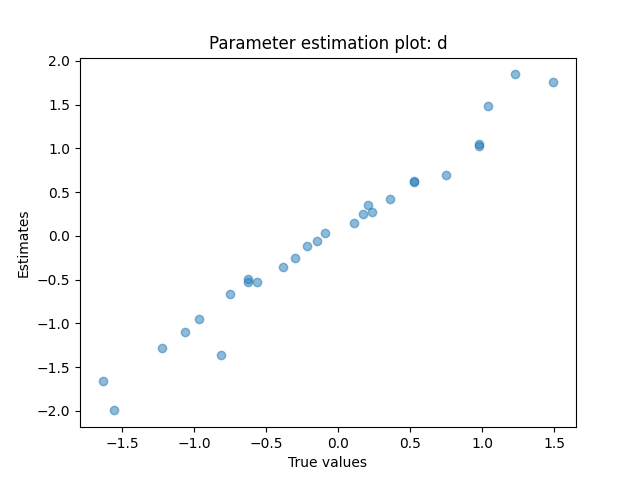
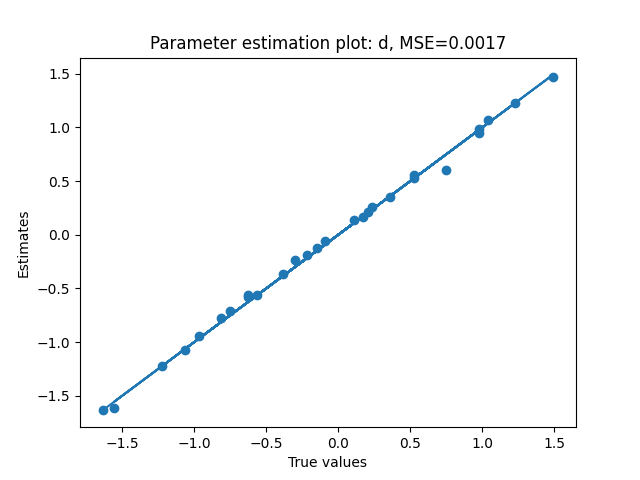
corrected loss function, updated plots

diff --git a/main.py b/main.py
@@ -21,30 +21,49 @@ def inv_factors(a, theta=None):
 
     return a, theta
 
-# create data laoder
+def MSE(est, true):
+    """
+    Mean square error
+    Parameters
+    ----------
+    est: estimated parameter values
+    true: true paremters values
+
+    Returns
+    -------
+    the MSE
+    """
+    return np.mean(np.power(est-true,2))
+
+
+# create data loader
 dataset = ResponseDataset('./data/data.csv')
-train_loader= DataLoader(dataset, batch_size=10, shuffle=False)
+train_loader= DataLoader(dataset, batch_size=10000, shuffle=False)
 
 # initialise model and optimizer
 QMatrix = genfromtxt('./QMatrix.csv', delimiter=',')
 vae = VariationalAutoencoder(latent_dims=3, qm=QMatrix)
 lr = 1e-3
-optim = torch.optim.Adam(vae.parameters(), lr=lr, weight_decay=1e-5)
+optim = torch.optim.Adam(vae.parameters(), lr=lr)
 
 # train model
-num_epochs = 20
+num_epochs = 10000
+loss_values = []
 for epoch in range(num_epochs):
     train_loss = train_epoch(vae,train_loader,optim)
-    if epoch % 5 == 0:
+    loss_values.append(train_loss)
+    if epoch % 50 == 0:
         print('\n EPOCH {}/{} \t train loss {:.3f}'.format(epoch + 1, num_epochs,train_loss))
+
+plt.title(f'Training loss')
+plt.plot(loss_values)
+plt.savefig(f'./figures/training_loss.png')
 
 # save parameter estimates
 a_est = vae.decoder.linear.weight.detach().numpy()
 d_est = vae.decoder.linear.bias.detach().numpy()
 theta_est = vae.encoder.est_theta(dataset.x_train).detach().numpy()
 
-# calculate theta estimates
-# TODO
 
 # invert factors for increased interpretability
 a_est, theta_est = inv_factors(a_est, theta_est)
@@ -56,25 +75,36 @@ d_true = np.genfromtxt('./data/d.txt')
 
 
 # parameter estimation plot for a
-plt.figure()
-plt.scatter(y=a_est.flatten(), x=a_true.flatten(), alpha=.5)
-plt.title('Parameter estimation plot: a')
-plt.xlabel('True values')
-plt.ylabel('Estimates')
-plt.savefig('./figures/param_est_plot_a.png')
+for dim in range(3):
+    plt.figure()
+    ai_est = a_est[:,dim]
+    ai_true = a_true[:,dim]
+    mse = MSE(ai_est, ai_true)
+    plt.scatter(y=ai_est, x=ai_true)
+    plt.plot(ai_true, ai_true)
+    plt.title(f'Parameter estimation plot: a{dim+1}, MSE={round(mse,4)}')
+    plt.xlabel('True values')
+    plt.ylabel('Estimates')
+    plt.savefig(f'./figures/param_est_plot_a{dim+1}.png')
 
-# parameter estimation plot for theta
-plt.figure()
-plt.scatter(y=theta_est.flatten(), x=theta_true.flatten(), alpha=.5)
-plt.title('Parameter estimation plot: theta')
-plt.xlabel('True values')
-plt.ylabel('Estimates')
-plt.savefig('./figures/param_est_plot_theta.png')
+    # parameter estimation plot for theta
+    plt.figure()
+    thetai_est = theta_est[:, dim]
+    thetai_true = theta_true[:, dim]
+    mse = MSE(thetai_est, thetai_true)
+    plt.scatter(y=thetai_est, x=thetai_true)
+    plt.plot(thetai_true, thetai_true)
+    plt.title(f'Parameter estimation plot: theta{dim+1}, MSE={round(mse,4)}')
+    plt.xlabel('True values')
+    plt.ylabel('Estimates')
+    plt.savefig(f'./figures/param_est_plot_theta{dim+1}.png')
 
 # parameter estimation plot for d
 plt.figure()
-plt.scatter(y=d_est, x=d_true, alpha=.5)
-plt.title('Parameter estimation plot: d')
+plt.scatter(y=d_est, x=d_true)
+plt.plot(d_true, d_true)
+mse = MSE(d_est, d_true)
+plt.title(f'Parameter estimation plot: d, MSE={round(mse,4)}')
 plt.xlabel('True values')
 plt.ylabel('Estimates')
 plt.savefig('./figures/param_est_plot_d.png')

diff --git a/model.py b/model.py
@@ -4,6 +4,7 @@ from torch import nn
 import torch.nn.functional as F
 from torch.utils.data import Dataset
 import torch.nn.utils.prune
+import numpy as np
 
 
 class ResponseDataset(Dataset):
@@ -38,9 +39,9 @@ class VariationalEncoder(nn.Module):
         :param latent_dims: number of latent dimensions of the model
         """
         super(VariationalEncoder, self).__init__()
-        self.dense1 = nn.Linear(28, 10)
-        self.dense3m = nn.Linear(10, latent_dims)
-        self.dense3s = nn.Linear(10, latent_dims)
+        self.dense1 = nn.Linear(28, 16)
+        self.dense3m = nn.Linear(16, latent_dims)
+        self.dense3s = nn.Linear(16, latent_dims)
 
         self.N = torch.distributions.Normal(0, 1)
         self.kl = 0
@@ -52,15 +53,21 @@ class VariationalEncoder(nn.Module):
         :return: a sample from the latent dimensions
         """
         # calculate m and mu based on encoder weights
-        x = F.relu(self.dense1(x))
+        x = F.elu(self.dense1(x))
         mu =  self.dense3m(x)
-        sigma = torch.exp(self.dense3s(x))
+        log_sigma = self.dense3s(x)
+        sigma = torch.exp(log_sigma)
+
 
         # sample from the latent dimensions
-        z = mu + sigma*self.N.sample(mu.shape)
+        z = mu + sigma * self.N.sample(mu.shape)
 
         # calculate kl divergence
-        self.kl = torch.mean(-0.5 * torch.sum(1 + torch.log(sigma) - mu ** 2 - torch.log(sigma).exp(), dim = 1), dim = 0)
+        #self.kl = torch.mean(-0.5 * torch.sum(1 + torch.log(sigma) - mu ** 2 - torch.log(sigma).exp(), dim = 1), dim = 0)
+        kl = 1 + 2*log_sigma - torch.square(mu) - torch.exp(2*log_sigma)
+        kl = torch.sum(kl, dim=-1)
+        self.kl = -.5 * kl
+
         return z
 
     def est_theta(self, x):
@@ -71,7 +78,7 @@ class VariationalEncoder(nn.Module):
         """
         x = F.relu(self.dense1(x))
         theta_hat = self.dense3m(x)
-        return(theta_hat)
+        return theta_hat
 
 
 
@@ -153,14 +160,18 @@ def train_epoch(vae, dataloader, optimizer):
         # forward pass
         X_hat = vae(X)
         # loss consistst of reconstruction error and the kl divergence
-        loss = ((X - X_hat)**2).sum() + vae.encoder.kl
+        #loss = ((X - X_hat)**2).sum() + vae.encoder.kl
+
+        bce = torch.nn.functional.binary_cross_entropy(X_hat, X) * 28
+        loss = torch.mean(bce + vae.encoder.kl)
 
         # Backward pass
         optimizer.zero_grad()
         loss.backward()
+
         optimizer.step()
         # Print batch loss
         #print('\t partial train loss (single batch): %f' % (loss.item()))
         train_loss+=loss.item()
 
-    return train_loss / len(dataloader.dataset)
+    return train_loss / len(dataloader)
